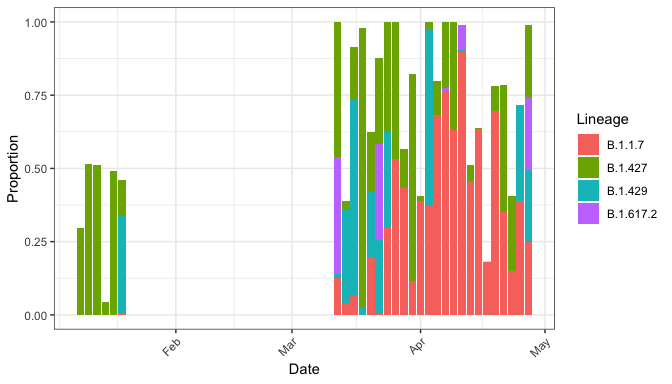
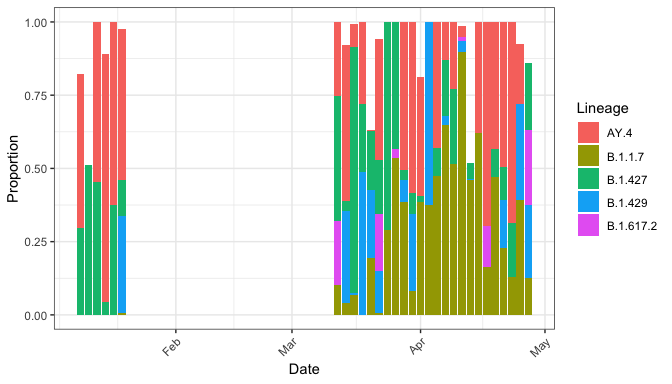
Update README

Changed region(s): [[0.5, 0.0312, 0.8125, 0.8438], [0.0938, 0.0625, 0.1875, 0.8438], [0.8438, 0.25, 1.0, 0.625]]

diff --git a/README.md b/README.md
@@ -56,15 +56,16 @@ notation that emphasizes the connection to binomial GLM models. The
 confidence intervals and correlation of the parameters.
 
 ``` r
-res <- provoc(cbind(count, coverage) ~ B.1.1.7 + B.1.429 + B.1.617.2 + B.1.427 + AY.4 + P.1,
+res <- provoc(
+    formula = count / coverage ~ B.1.1.7 + B.1.429 + B.1.617.2 + 
+        B.1.427 + AY.4 + P.1,
     data = b1,
-    verbose = FALSE,
     bootstrap_samples = 100)
 res
 ```
 
-    Call: cbind(count, coverage) ~ B.1.1.7 + B.1.429 + B.1.617.2 + B.1.427 + 
-        AY.4 + P.1
+    Call: count/coverage ~ B.1.1.7 + B.1.429 + B.1.617.2 + B.1.427 + AY.4 + 
+        P.1
 
     Mutations in lineage definitions:  325 
     Mutations used in analysis/mutations in data:
@@ -72,12 +73,13 @@ res
 
     All models converged.
 
-    Top 4 variants:
+    Top 5 variants:
          rho   ci_low  ci_high   variant group
-    2   0.33 3.23e-01 3.39e-01   B.1.429     1
-    4  0.124 1.16e-01 1.31e-01   B.1.427     1
-    1  0.008 7.06e-03 8.14e-03   B.1.1.7     1
-    3 <0.001 2.02e-09 4.67e-05 B.1.617.2     1
+    5  0.515 5.09e-01 5.20e-01      AY.4     1
+    2   0.33 3.23e-01 3.36e-01   B.1.429     1
+    4  0.124 1.19e-01 1.30e-01   B.1.427     1
+    1  0.008 7.09e-03 7.98e-03   B.1.1.7     1
+    3 <0.001 7.45e-10 8.13e-05 B.1.617.2     1
 
 We have created a class for `provoc` objects with convenient methods.
 For example, plotting the results is achieved as follows:
@@ -103,6 +105,45 @@ autoplot(res) +
 
 ![](README_files/figure-commonmark/one-sample-res-ggplot-1.png)
 
+``` r
+plot_resids(res)
+```
+
+![](README_files/figure-commonmark/one-sample-resid-plot-1.png)
+
+``` r
+summary(res)
+```
+
+
+    Call:
+    count/coverage ~ B.1.1.7 + B.1.429 + B.1.617.2 + B.1.427 + AY.4 + 
+        P.1
+
+    Deviance Residuals:
+        Min.  1st Qu.   Median     Mean  3rd Qu.     Max. 
+    -10.3051  -1.9998   0.0000  -0.7594   0.0000   8.1775 
+
+    Mutations in lineage definitions: 325 
+    Mutations used in analysis/mutations in data:
+    74/772
+
+    Coefficients:
+               rho       ci_low      ci_high   variant
+    1 7.599439e-03 7.092760e-03 7.983944e-03   B.1.1.7
+    2 3.301205e-01 3.229204e-01 3.355859e-01   B.1.429
+    3 9.512833e-09 7.446244e-10 8.130071e-05 B.1.617.2
+    4 1.242872e-01 1.193353e-01 1.298808e-01   B.1.427
+    5 5.150303e-01 5.088075e-01 5.202288e-01      AY.4
+
+    Correlation of coefficients:
+                  B.1.1.7     B.1.429   B.1.617.2     B.1.427        AY.4
+    B.1.1.7    1.00000000  0.04022470  0.15339528 -0.09719734  0.07089729
+    B.1.429    0.04022470  1.00000000 -0.08722878 -0.88296571  0.06095588
+    B.1.617.2  0.15339528 -0.08722878  1.00000000  0.02233181  0.04138764
+    B.1.427   -0.09719734 -0.88296571  0.02233181  1.00000000 -0.07725833
+    AY.4       0.07089729  0.06095588  0.04138764 -0.07725833  1.00000000
+
 # Multiple Samples
 
 ``` r
@@ -121,50 +162,56 @@ head(b1[, c("count", "coverage", "mutation", "label", "sra")])
     6 13866    27715 aa:orf1a:L3352F ~10319T SRR15505102
 
 Note the “`by`” argument below. This tells `provoc()` to fit the model
-separately to each sample defined by the `by` column. Since there are 50
+separately to each sample defined by the `by` column. Since there are 30
 samples, the model takes a while to run, hence why there are only 50
 bootstrap samples here.
 
 ``` r
 system.time(
-    res <- provoc(cbind(count, coverage) ~ B.1.1.7 + B.1.429 + B.1.617.2 + B.1.427 + AY.4 + P.1,
-        data = b2, by = "sra",
-        verbose = FALSE, bootstrap_samples = 50)
+    res <- provoc(
+        formula = count / coverage ~ B.1.1.7 + B.1.429 + B.1.617.2 +
+            B.1.427 + AY.4 + P.1,
+        data = b2, 
+        by = "sra",
+        bootstrap_samples = 0)
 )
 ```
+
+    [1] "Attempt 10 of 20."
+    [1] "Attempt 20 of 20."
+
        user  system elapsed 
-     27.626   0.078  28.001 
+      1.456   0.015   1.477 
 
 ``` r
 res
 ```
 
-    Call: cbind(count, coverage) ~ B.1.1.7 + B.1.429 + B.1.617.2 + B.1.427 + 
-        AY.4 + P.1
+    Call: count/coverage ~ B.1.1.7 + B.1.429 + B.1.617.2 + B.1.427 + AY.4 + 
+        P.1
 
     Mutations in lineage definitions:  325 
-    Summary of percent of mutations used:
+    Summary of percent of mutations in data used:
        Min. 1st Qu.  Median    Mean 3rd Qu.    Max. 
     0.09585 0.09585 0.09585 0.09585 0.09585 0.09585 
-
 
     All models converged.
 
     Top 6 variants:
           rho ci_low ci_high variant       group avg_spot_len sample_name     bases
-    108 0.956  0.946   0.966 B.1.427 SRR15505128          302         FH1 417245918
-    49  0.898  0.856   0.944 B.1.1.7 SRR15505114          302         FX2 385650980
-    61  0.766  0.765   0.772 B.1.1.7 SRR15505117          302         FU2 651084518
-    80  0.709  0.699   0.714 B.1.427 SRR15505121          302         FP1 568356752
-    33  0.696  0.686   0.705 B.1.1.7 SRR15505110          302         GC3 462319720
-    65  0.683  0.678   0.687 B.1.1.7 SRR15505118          302         FS3 609182622
+    61  0.899     NA      NA B.1.1.7 SRR15505114          302         FX2 385650980
+    15  0.846     NA      NA    AY.4 SRR15505104          302         DR2 412520222
+    139  0.84     NA      NA B.1.427 SRR15505129          302         FE1 339620744
+    114 0.709     NA      NA B.1.427 SRR15505124          302         FK2 433136554
+    50  0.695     NA      NA    AY.4 SRR15505111          302         GC1 484282368
+    35  0.687     NA      NA    AY.4 SRR15505108          302         GF2 615765014
          bioproject       date
-    108 PRJNA741211 2021-03-18
-    49  PRJNA741211 2021-04-11
-    61  PRJNA741211 2021-04-07
-    80  PRJNA741211 2021-03-30
-    33  PRJNA741211 2021-04-19
-    65  PRJNA741211 2021-04-05
+    61  PRJNA741211 2021-04-11
+    15  PRJNA741211 2021-01-15
+    139 PRJNA741211 2021-03-16
+    114 PRJNA741211 2021-03-24
+    50  PRJNA741211 2021-04-17
+    35  PRJNA741211 2021-04-23
 
 The plotting functions above work as expected.
 
@@ -190,6 +237,12 @@ autoplot(res, date_col = "date")
 ```
 
 ![](README_files/figure-commonmark/multi-date-res-ggplot-1.png)
+
+``` r
+plot_resids(res)
+```
+
+![](README_files/figure-commonmark/multi-sample-resid-plot-1.png)
 
 ## Searching for Different Variants
 
@@ -218,14 +271,17 @@ g_with / g_without
 # Roadmap
 
 - Soon
-  - [ ] Finish approximations to Freyja and Alcov.
-  - [ ] Full suite of model diagnostics.
+  - [ ] Finish simplified versions of Freyja and Alcov models.
+  - [ ] Full suite of model diagnostic visualizations.
   - [ ] Process data from iVar for use in models.
+    - [ ] Process a list or directory of iVar data into an appropriate
+      object.
   - [ ] Tools to investigate the effect of different lineage
     definitions.
 - Medium future
   - [ ] Convert Freyja and Alcov outputs to R objects that can take
     advantage of the diagnostics.
-  - [ ] Hypothesis tests for whether a coefficient (or group) is 0.
+  - [ ] Allow lists of formulae, lists of mutation_defs, and lists of
+    data.
 - Far future
   - [ ] Make available on CRAN
